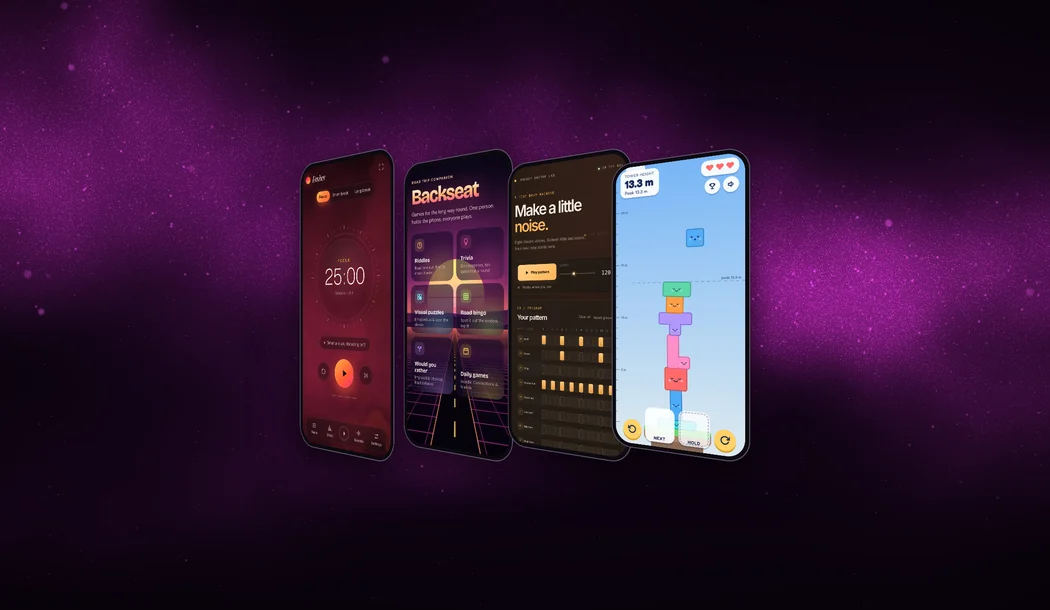
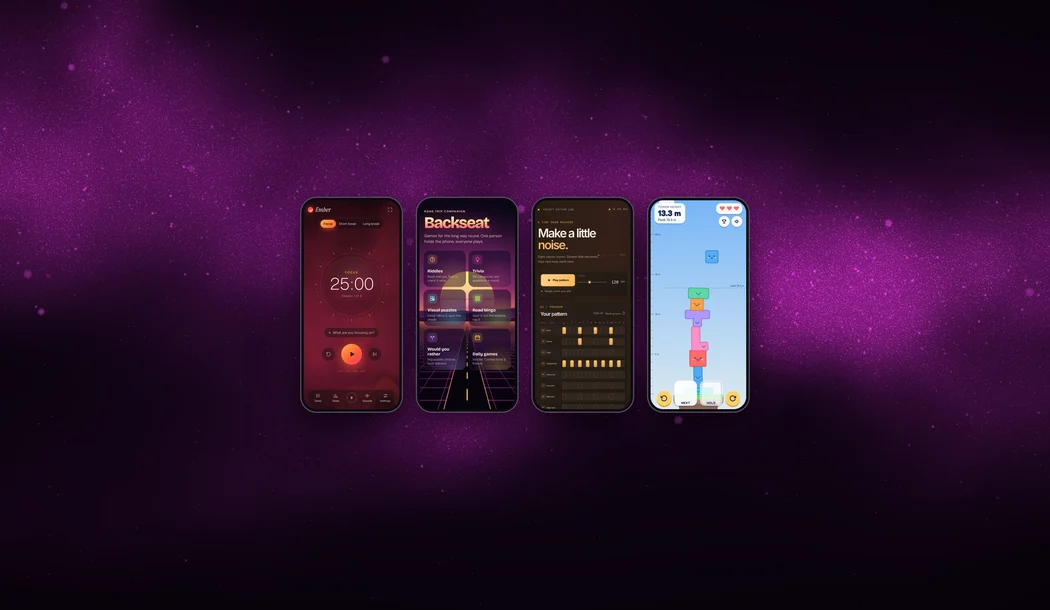
Flat row on the side projects tile and a Wobble Tower Figma link
Home tile now shows the four phones flat and evenly spaced. Wobble Tower
gets its Figma file link, and the home page and meta copy say all four
projects were designed in Figma.

Claude-Session: https://claude.ai/code/session_01C1U52sFBhvk6T7H5ub9uAS

Changed region(s): [[0.2743, 0.2492, 0.7314, 0.7787]]

diff --git a/side-projects.html b/side-projects.html
@@ -4,11 +4,11 @@
 <meta charset="utf-8">
 <meta name="viewport" content="width=device-width, initial-scale=1">
 <title>Side projects built with AI tools | Dylan Straffon</title>
-<meta name="description" content="Pomodoro Pal, Backseat, 808 Pocket and Wobble Tower: three small apps and a physics game Dylan Straffon built with Claude.">
+<meta name="description" content="Pomodoro Pal, Backseat, 808 Pocket and Wobble Tower: three small apps and a physics game Dylan Straffon designed in Figma and built with Claude.">
 <link rel="canonical" href="https://www.dylanstraffon.com/side-projects.html">
 <meta property="og:type" content="website">
 <meta property="og:title" content="Side projects built with AI tools | Dylan Straffon">
-<meta property="og:description" content="Pomodoro Pal, Backseat, 808 Pocket and Wobble Tower: three small apps and a physics game Dylan Straffon built with Claude.">
+<meta property="og:description" content="Pomodoro Pal, Backseat, 808 Pocket and Wobble Tower: three small apps and a physics game Dylan Straffon designed in Figma and built with Claude.">
 <meta property="og:url" content="https://www.dylanstraffon.com/side-projects.html">
 <meta property="og:image" content="https://www.dylanstraffon.com/images/og/side-projects.jpg">
 <meta name="twitter:card" content="summary_large_image">
@@ -49,7 +49,7 @@
 <section class="proj"><div class="shot rv" style="background:#1A0D10"><img src="images/side-projects/pomodoro-pal.webp" sizes="(max-width:860px) 92vw, 760px" width="1080" height="682" alt="Pomodoro Pal on a laptop, with a timer reading 24:59 over a deep red animated background" loading="lazy" decoding="async"></div><div class="body rv"><h2>Pomodoro Pal</h2><p class="tag mono">Focus and attention</p><div class="prose"><p>A Pomodoro timer for desktop and mobile that’s meant to feel calm rather than clinical. A live WebGL shader fills the background and changes with your session: ember tones for focus, teal and violet for breaks. It glows brighter as a session nears its end.</p><p data-full>Around the animated dial are features that support focus without crowding it: tasks, streaks and a heatmap, a breathing guide, ambient sound and zen mode. All of it comes to about 20 KB and works offline.</p></div><div class="links"><a class="lk" href="https://dstraffon.github.io/pomodoro/" target="_blank" rel="noopener">Try it live <span class="ar" aria-hidden="true">↗</span></a><a class="lk" href="https://www.figma.com/design/LDxkWgaCpVuJKNQFPJaWdY/Pomodoro-Pal?node-id=0-1&t=zx2QQMJ5meBkhmcM-1" target="_blank" rel="noopener">Figma file <span class="ar" aria-hidden="true">↗</span></a></div></div></section>
 <section class="proj"><div class="shot rv" style="background:#17120F"><img src="images/side-projects/backseat.webp" sizes="(max-width:860px) 92vw, 760px" width="908" height="861" alt="Three Backseat phone screens: daily games, the home menu and road bingo" loading="lazy" decoding="async"></div><div class="body rv"><h2>Backseat</h2><p class="tag mono">The road trip companion app</p><div class="prose"><p>A phone first game companion that turns time on the road into shared play, with quick modes for riddles, trivia, visual puzzles, bingo, “Would You Rather” and daily games. It’s designed for a group sharing one device, so every activity is simple to start and easy to play together.</p><p data-full>Building it was practice in AI assisted design: exploring concepts, prototyping screen flows and iterating on visual directions, with my own product judgment keeping the experience cohesive, usable and responsive.</p></div><div class="links"><a class="lk" href="https://dstraffon.github.io/Backseat/" target="_blank" rel="noopener">Try it live <span class="ar" aria-hidden="true">↗</span></a><a class="lk" href="https://www.figma.com/design/B66gqaofhujQEsehntJKfM/Backseat-Roadside-Companion-App-Screens?node-id=0-1&t=PRr2ROqc8rzMZsWe-1" target="_blank" rel="noopener">Figma file <span class="ar" aria-hidden="true">↗</span></a></div></div></section>
 <section class="proj"><div class="shot rv" style="background:#15110E"><img src="images/side-projects/808-pocket.webp" sizes="(max-width:860px) 92vw, 760px" width="1080" height="682" alt="808 Pocket on a laptop, showing the headline Make a little noise above a 16 step sequencer grid" loading="lazy" decoding="async"></div><div class="body rv"><h2>808 Pocket</h2><p class="tag mono">One click from a rhythm</p><div class="prose"><p>A compact drum machine that runs in the browser and makes starting a beat feel immediate and playful. It has a responsive 16 step sequencer, eight synthesized drum voices, tempo and volume controls, and pitch tuning for the kick, snare tone and toms.</p><p data-full>I built it as a hands on way to get better with AI tools, using them to explore ideas, iterate on features and design, and take the project from concept to a polished experience on desktop and mobile.</p></div><div class="links"><a class="lk" href="https://dstraffon.github.io/dylansdrummachine/" target="_blank" rel="noopener">Try it live <span class="ar" aria-hidden="true">↗</span></a><a class="lk" href="https://www.figma.com/design/BJmLall1s3xa0LzhHdH11I/Drum-Machine?node-id=0-1&t=sjXxUNTeHg058G8I-1" target="_blank" rel="noopener">Figma file <span class="ar" aria-hidden="true">↗</span></a></div></div></section>
-<section class="proj"><div class="shot rv" style="background:#141B2E"><img src="images/side-projects/wobble-tower.webp" srcset="images/side-projects/wobble-tower-751.webp 751w, images/side-projects/wobble-tower.webp 1502w" sizes="(max-width:860px) 92vw, 760px" width="1502" height="1242" alt="Three Wobble Tower phone screens: the empty island at the start, a 14 meter tower of smiling blocks with a new block held above it, and the game over card showing a peak of 14.0 m" loading="lazy" decoding="async"></div><div class="body rv"><h2>Wobble Tower</h2><p class="tag mono">A physics game about balance</p><div class="prose"><p>A stacking game for phone and desktop. You drag smiling blocks onto a small island and build as high as you can before three of them fall into the sea. Your score is the tower’s peak height in meters, and the sky turns from day to dusk to night as you climb.</p><p data-full>There are twelve block shapes, from squares and planks to wheels, domes and L shapes, plus a Hold slot to save one for later. You rotate a block with the round buttons, by twisting a second finger on a phone, or with the arrow keys and scroll wheel on a computer. Matter.js handles the physics, and the browser synthesizes every sound, so the game has no audio files.</p></div><div class="links"><a class="lk" href="https://dstraffon.github.io/wobble-tower/" target="_blank" rel="noopener">Play it live <span class="ar" aria-hidden="true">↗</span></a><a class="lk" href="https://github.com/dstraffon/wobble-tower" target="_blank" rel="noopener">Code on GitHub <span class="ar" aria-hidden="true">↗</span></a></div></div></section>
+<section class="proj"><div class="shot rv" style="background:#141B2E"><img src="images/side-projects/wobble-tower.webp" srcset="images/side-projects/wobble-tower-751.webp 751w, images/side-projects/wobble-tower.webp 1502w" sizes="(max-width:860px) 92vw, 760px" width="1502" height="1242" alt="Three Wobble Tower phone screens: the empty island at the start, a 14 meter tower of smiling blocks with a new block held above it, and the game over card showing a peak of 14.0 m" loading="lazy" decoding="async"></div><div class="body rv"><h2>Wobble Tower</h2><p class="tag mono">A physics game about balance</p><div class="prose"><p>A stacking game for phone and desktop. You drag smiling blocks onto a small island and build as high as you can before three of them fall into the sea. Your score is the tower’s peak height in meters, and the sky turns from day to dusk to night as you climb.</p><p data-full>There are twelve block shapes, from squares and planks to wheels, domes and L shapes, plus a Hold slot to save one for later. You rotate a block with the round buttons, by twisting a second finger on a phone, or with the arrow keys and scroll wheel on a computer. Matter.js handles the physics, and the browser synthesizes every sound, so the game has no audio files.</p></div><div class="links"><a class="lk" href="https://dstraffon.github.io/wobble-tower/" target="_blank" rel="noopener">Play it live <span class="ar" aria-hidden="true">↗</span></a><a class="lk" href="https://www.figma.com/design/obNkkJ5vad0f6pZgELdjJz/Wobble-Tower-Design?node-id=0-1&amp;t=M2lk4ZXo4rYDSBtX-1" target="_blank" rel="noopener">Figma file <span class="ar" aria-hidden="true">↗</span></a><a class="lk" href="https://github.com/dstraffon/wobble-tower" target="_blank" rel="noopener">Code on GitHub <span class="ar" aria-hidden="true">↗</span></a></div></div></section>
 </div><div class="wrap"><a class="next" href="creator-hub.html"><span class="mono muted">Next project</span><strong>Asset Layer Creator Hub <span aria-hidden="true">→</span></strong></a></div>
 </main>
 <footer class="foot" id="contact">

diff --git a/index.html b/index.html
@@ -49,7 +49,7 @@
   <div class="grid">
     <p class="rv">For four years I was the sole UX designer at Asset Layer. The SaaS, marketplace, and game work brought in <b>$400,000+</b>, an onboarding redesign cut new user churn by <b>35%</b>, and one design system kept it all consistent across platforms.</p>
     <p class="aside rv">Before that I tested the IRS fraud detection system at IBM, which taught me to go looking for what breaks. I’ve run more than 30 user testing sessions since, in house and freelance.</p>
-    <p class="aside rv">I also build. I designed the three apps further down in Figma, coded them and a small physics game with Claude, and all four are live for you to try.</p>
+    <p class="aside rv">I also build. The four projects further down were designed in Figma, coded with Claude, and are live for you to try.</p>
   </div>
 </section>
 
@@ -78,7 +78,7 @@
       <li class="work-item"><a href="side-projects.html">
         <span class="thumb cover" style="background:#1A0B22"><img src="images/home/tile-side-projects-1050.webp" srcset="images/home/tile-side-projects-1050.webp 1050w, images/home/tile-side-projects.webp 2098w" sizes="(max-width:860px) 100vw, 66vw" width="2098" height="1218" alt="Four phones showing Pomodoro Pal, Backseat, 808 Pocket and Wobble Tower" loading="lazy" decoding="async"></span>
         <h3>Side projects, built with AI</h3><span class="ar" aria-hidden="true">→</span>
-        <p>A focus timer, a road trip game, a drum machine and a stacking game. I built all four with Claude, and they’re all live to try.</p>
+        <p>A focus timer, a road trip game, a drum machine and a stacking game. I designed each in Figma and built it with Claude, and all four are live.</p>
         <span class="meta mono">Personal / Design and build / Ongoing</span>
       </a></li>
     </ul>
